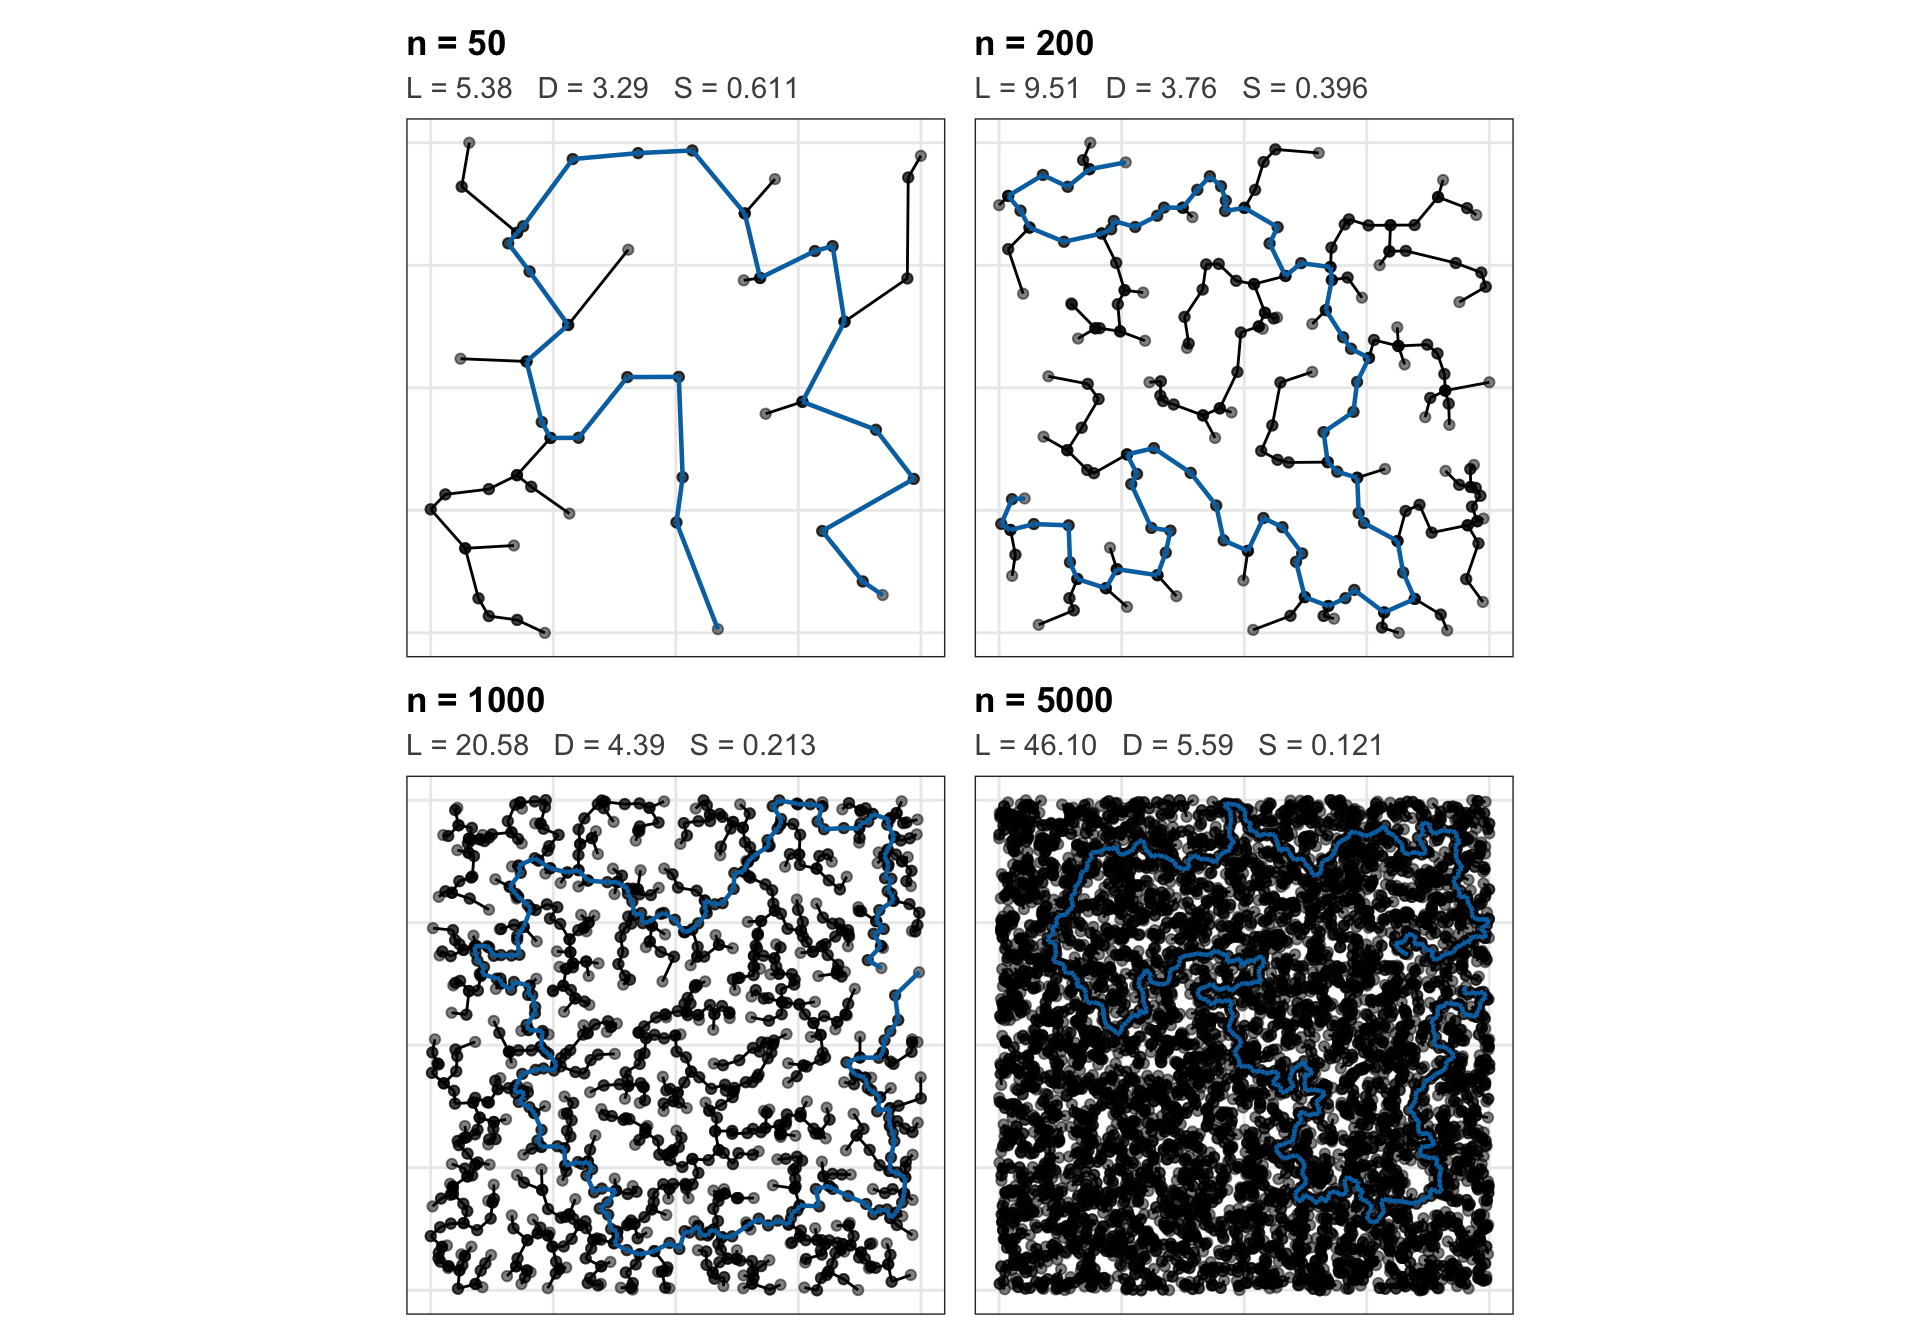
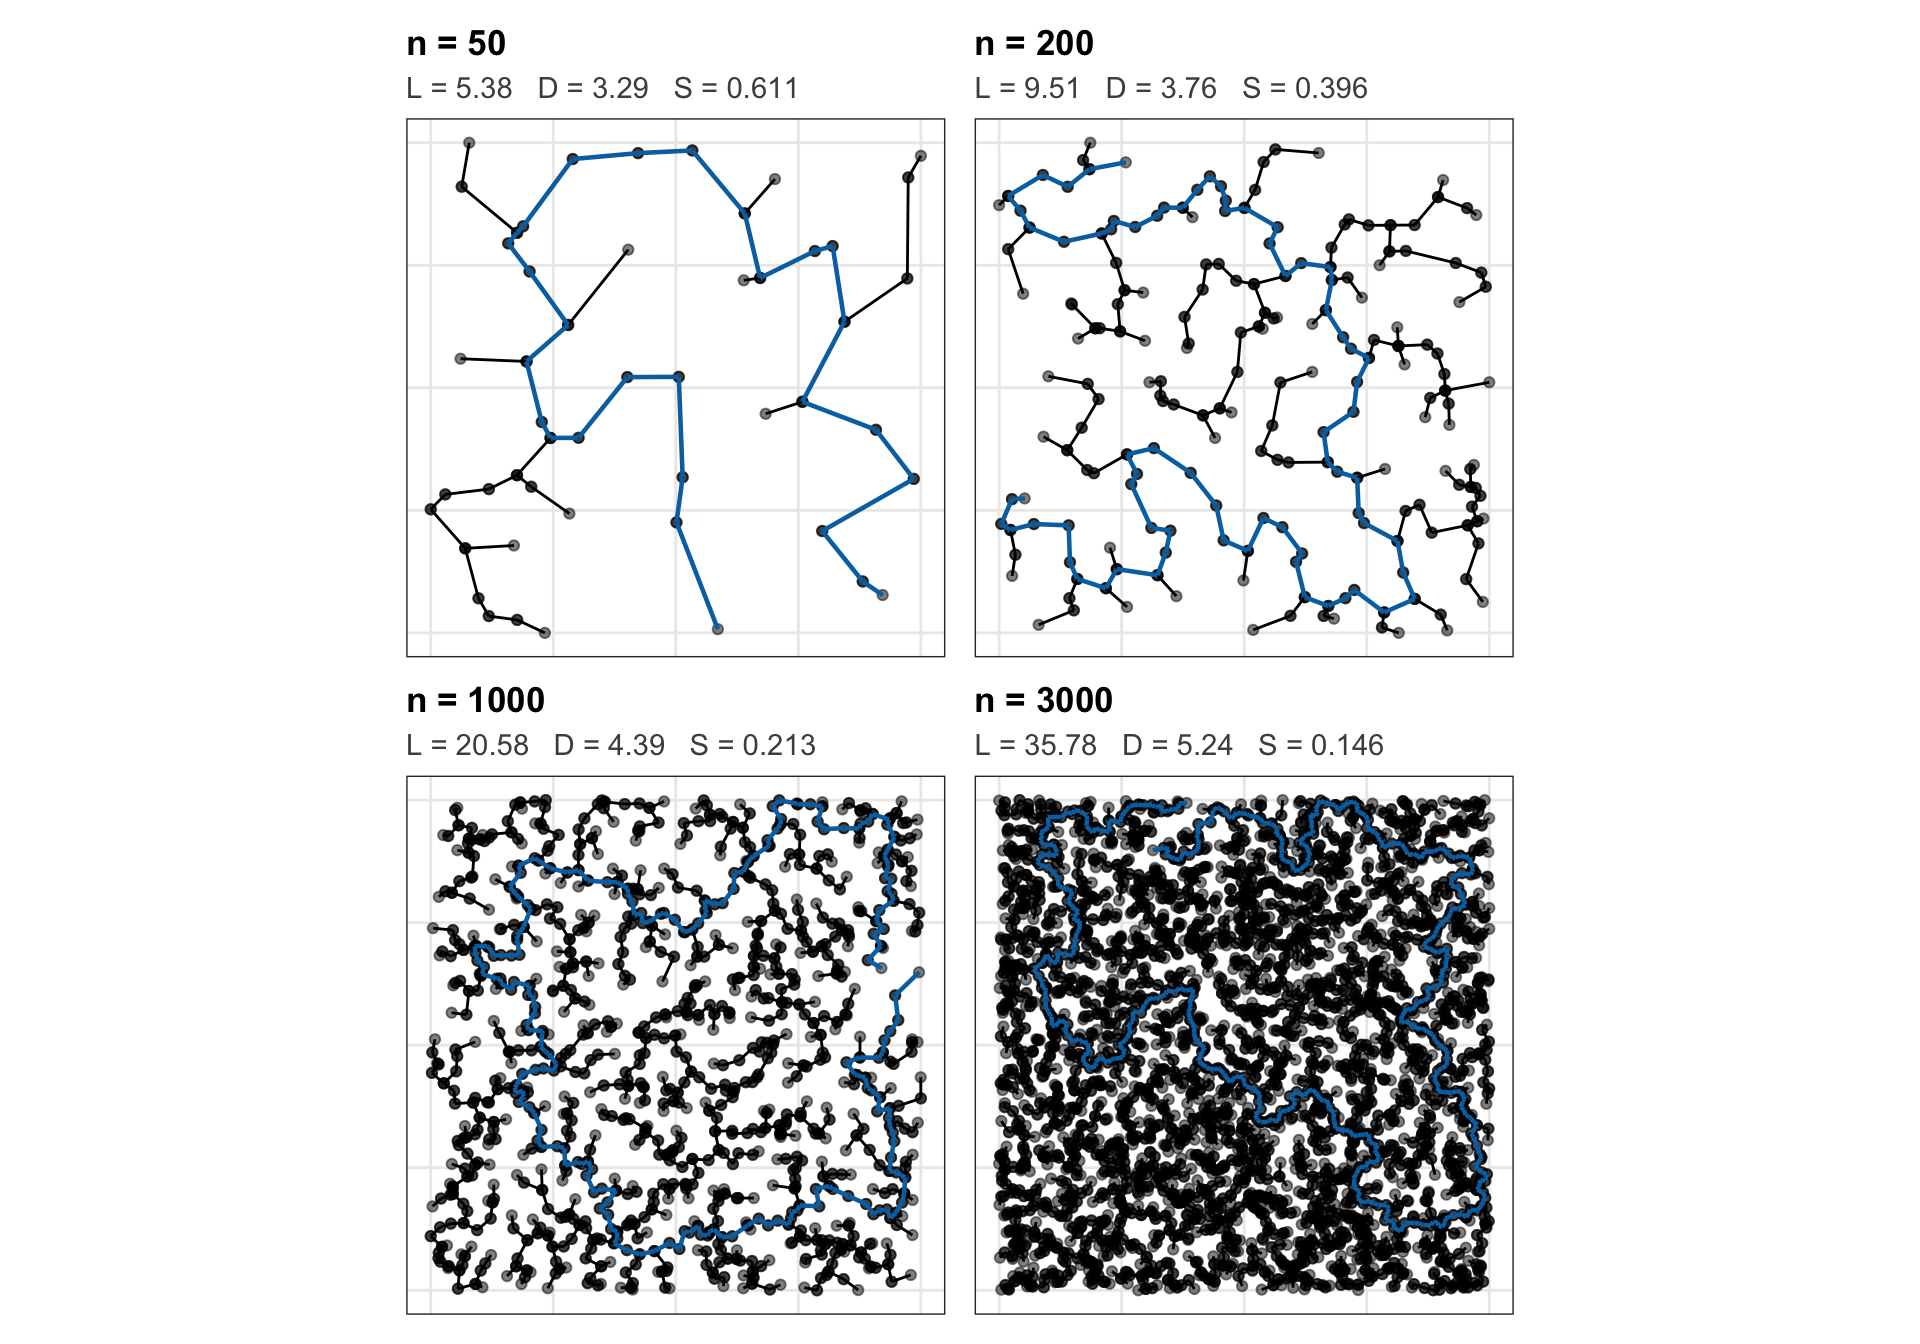
Added stringy anatomy

diff --git a/draft/draft.html b/draft/draft.html
@@ -105,7 +105,12 @@ window.Quarto = {
   <ul>
   <li><a href="#abstract" id="toc-abstract" class="nav-link active" data-scroll-target="#abstract"><span class="header-section-number">1</span> Abstract</a></li>
   <li><a href="#introduction" id="toc-introduction" class="nav-link" data-scroll-target="#introduction"><span class="header-section-number">2</span> Introduction</a></li>
-  <li><a href="#references" id="toc-references" class="nav-link" data-scroll-target="#references"><span class="header-section-number">3</span> References</a></li>
+  <li><a href="#geometry-of-the-stringy-statistic" id="toc-geometry-of-the-stringy-statistic" class="nav-link" data-scroll-target="#geometry-of-the-stringy-statistic"><span class="header-section-number">3</span> Geometry of the Stringy statistic</a>
+  <ul class="collapse">
+  <li><a href="#anatomy-of-the-index" id="toc-anatomy-of-the-index" class="nav-link" data-scroll-target="#anatomy-of-the-index"><span class="header-section-number">3.1</span> Anatomy of the index</a></li>
+  <li><a href="#same-distribution-increasingly-dense-msts" id="toc-same-distribution-increasingly-dense-msts" class="nav-link" data-scroll-target="#same-distribution-increasingly-dense-msts"><span class="header-section-number">3.2</span> Same distribution, increasingly dense MSTs</a></li>
+  </ul></li>
+  <li><a href="#references" id="toc-references" class="nav-link" data-scroll-target="#references"><span class="header-section-number">4</span> References</a></li>
   </ul>
 <div class="quarto-alternate-formats"><h2>Other Formats</h2><ul><li><a href="draft.pdf"><i class="bi bi-file-pdf"></i>PDF</a></li></ul></div></nav>
 </div>
@@ -212,12 +217,82 @@ L_n
 </ol>
 <p>The paper is deliberately framed as an empirical scaling investigation rather than as a derivation of the asymptotic growth rate of the weighted Euclidean MST diameter. The contribution is instead to connect known MST theory with the finite-sample behaviour of Stringy, identify which component drives the sample-size dependence, evaluate the limits of deterministic scaling, and motivate a statistically calibrated version of the index for projection pursuit.</p>
 </section>
-<section id="references" class="level1 unnumbered" data-number="3">
+<section id="geometry-of-the-stringy-statistic" class="level1" data-number="3">
+<h1 data-number="3"><span class="header-section-number">3</span> Geometry of the Stringy statistic</h1>
+<p>Stringy is defined by a remarkably simple ratio, but that simplicity hides a more interesting geometric story.</p>
+<p>Minimum spanning trees have long been used to summarize spatial relationships among observations. Classical statistical connections include single-linkage clustering <span class="citation" data-cites="gower1969mst">(<a href="#ref-gower1969mst" role="doc-biblioref">Gower and Ross 1969</a>)</span> and later density-based cluster estimation using the sample MST <span class="citation" data-cites="stuetzle2003cluster">(<a href="#ref-stuetzle2003cluster" role="doc-biblioref">Stuetzle 2003</a>)</span>. In scagnostics, however, the role of the MST is different: it acts as a geometric skeleton of the scatterplot, from which visual characteristics of the point cloud can be quantified <span class="citation" data-cites="wilkinson2005graph wilkinson2008scagdist">(<a href="#ref-wilkinson2005graph" role="doc-biblioref">Wilkinson et al. 2005</a>; <a href="#ref-wilkinson2008scagdist" role="doc-biblioref">Wilkinson and Wills 2008</a>)</span>.</p>
+<p>For Stringy, the key question is not simply how large the MST is. It is how much of that tree can be captured by one dominant path.</p>
+<section id="anatomy-of-the-index" class="level2" data-number="3.1">
+<h2 data-number="3.1" class="anchored" data-anchor-id="anatomy-of-the-index"><span class="header-section-number">3.1</span> Anatomy of the index</h2>
+<p>The distinction among total tree length, weighted diameter, and longest individual edge is easiest to understand by looking directly at the tree.</p>
+<p><a href="#fig-stringy-anatomy" class="quarto-xref">Figure&nbsp;1</a> shows the same structured point cloud and exactly the same MST, but highlights two different geometric objects. In the left panel, the emphasized path is the <strong>weighted diameter</strong>: the path through the MST whose accumulated Euclidean edge length is largest. This is the quantity used in the numerator of Stringy. In the right panel, only the <strong>single longest edge</strong> is highlighted.</p>
+<p>The contrast is important. The longest edge is a local extreme: it identifies one unusually long connection in the tree. The weighted diameter is global: it can pass through many comparatively short edges and accumulate a much larger total length. Although both quantities come from the same MST, they answer fundamentally different geometric questions.</p>
+<div class="cell">
+<div class="cell-output-display">
+<div id="fig-stringy-anatomy" class="quarto-float quarto-figure quarto-figure-center anchored">
+<figure class="quarto-float quarto-float-fig figure">
+<div aria-describedby="fig-stringy-anatomy-caption-0ceaefa1-69ba-4598-a22c-09a6ac19f8ca">
+<img src="draft_files/figure-html/fig-stringy-anatomy-1.png" class="img-fluid figure-img" width="864">
+</div>
+<figcaption class="quarto-float-caption-bottom quarto-float-caption quarto-float-fig" id="fig-stringy-anatomy-caption-0ceaefa1-69ba-4598-a22c-09a6ac19f8ca">
+Figure&nbsp;1: Two different geometric summaries of the same minimum spanning tree. Left: the weighted diameter, defined as the path with the greatest accumulated Euclidean length and used in the numerator of Stringy. Right: the single longest MST edge. The comparison illustrates why longest-edge theory does not directly determine the behaviour of the Stringy numerator.
+</figcaption>
+</figure>
+</div>
+</div>
+</div>
+<p>The original Stringy index compares the length of the longest weighted path with the total length of the tree,</p>
+<p><span class="math display">\[
+S_n=\frac{D_n}{L_n}.
+\]</span></p>
+<p>Because every diameter path consists only of edges already contained in the MST,</p>
+<p><span class="math display">\[
+0&lt;D_n\leq L_n,
+\]</span></p>
+<p>and therefore</p>
+<p><span class="math display">\[
+0&lt;S_n\leq1.
+\]</span></p>
+<p>This bound is built directly into the geometry of the index. A value near one means that most of the tree can be traversed along a single dominant path; a smaller value indicates that more of the total tree length lies in branches away from that path.</p>
+<p>This structural bound becomes especially important later. Any proposed normalization that modifies the numerator and denominator differently may reduce sample-size dependence, but it may also break the geometric relationship that guarantees Stringy remains between zero and one.</p>
+</section>
+<section id="same-distribution-increasingly-dense-msts" class="level2" data-number="3.2">
+<h2 data-number="3.2" class="anchored" data-anchor-id="same-distribution-increasingly-dense-msts"><span class="header-section-number">3.2</span> Same distribution, increasingly dense MSTs</h2>
+<p>The sample-size problem becomes more intuitive when the tree is allowed to grow.</p>
+<p><a href="#fig-growing-mst" class="quarto-xref">Figure&nbsp;2</a> shows four independent samples from exactly the same data-generating mechanism,</p>
+<p><span class="math display">\[
+(X,Y)\sim U(0,1)^2,
+\]</span></p>
+<p>with only the sample size changing. The square itself does not expand, the underlying distribution does not change, and no new structure is introduced. What changes is the resolution at which the region is sampled.</p>
+<p>As <span class="math inline">\(n\)</span> increases, the MST fills the same spatial domain with more vertices and therefore more edges. Individual edges become shorter, but there are more of them. The total tree length, the weighted diameter, and their ratio do not respond to these changes in the same way.</p>
+<div class="cell">
+<div class="cell-output-display">
+<div id="fig-growing-mst" class="quarto-float quarto-figure quarto-figure-center anchored">
+<figure class="quarto-float quarto-float-fig figure">
+<div aria-describedby="fig-growing-mst-caption-0ceaefa1-69ba-4598-a22c-09a6ac19f8ca">
+<img src="draft_files/figure-html/fig-growing-mst-1.png" class="img-fluid figure-img" width="960">
+</div>
+<figcaption class="quarto-float-caption-bottom quarto-float-caption quarto-float-fig" id="fig-growing-mst-caption-0ceaefa1-69ba-4598-a22c-09a6ac19f8ca">
+Figure&nbsp;2: The geometry of the Euclidean MST as sampling density increases under the same Uniform(0,1)^2 data-generating mechanism. Grey segments show the complete MST and blue segments highlight the weighted diameter path. The spatial domain is unchanged across panels; only n increases. Each panel reports total MST length L, weighted diameter D, and Stringy S = D/L.
+</figcaption>
+</figure>
+</div>
+</div>
+</div>
+<p><a href="#fig-growing-mst" class="quarto-xref">Figure&nbsp;2</a> shows why Stringy can change with sample size even when the underlying distribution does not change.</p>
+<p>As <span class="math inline">\(n\)</span> increases, the MST contains more edges. These edges are generally shorter because the points are packed more densely, but there are many more of them. As a result, the <strong>total MST length</strong> can still increase.</p>
+<p>The <strong>weighted diameter</strong> behaves differently because it uses only the edges along one longest path through the tree. When more points are added, this path may pass through more vertices, but the individual edges along the path also become shorter.</p>
+<p>So the numerator and denominator of Stringy respond to increasing sample size in different ways.</p>
+<p>The key question is therefore not simply whether Stringy changes with <span class="math inline">\(n\)</span>, but <strong>why</strong> it changes. In particular, we want to know whether the total tree length <span class="math inline">\(L_n\)</span> and the longest weighted path <span class="math inline">\(D_n\)</span> grow at different rates.</p>
+<p>The rest of this paper investigates this difference.</p>
+</section>
+</section>
+<section id="references" class="level1 unnumbered" data-number="4">
 
 
 </section>
 
-<div id="quarto-appendix" class="default"><section class="quarto-appendix-contents" role="doc-bibliography" id="quarto-bibliography"><h2 class="anchored quarto-appendix-heading">3 References</h2><div id="refs" class="references csl-bib-body hanging-indent" role="list">
+<div id="quarto-appendix" class="default"><section class="quarto-appendix-contents" role="doc-bibliography" id="quarto-bibliography"><h2 class="anchored quarto-appendix-heading">4 References</h2><div id="refs" class="references csl-bib-body hanging-indent" role="list">
 <div id="ref-addarioberry2006diameter" class="csl-entry" role="listitem">
 Addario-Berry, Louigi, Nicolas Broutin, and Bruce Reed. 2006. <span>“The Diameter of the Minimum Spanning Tree of a Complete Graph.”</span> <em>Discrete Mathematics &amp; Theoretical Computer Science Proceedings</em> AG: 237–48. <a href="https://doi.org/10.46298/dmtcs.3513">https://doi.org/10.46298/dmtcs.3513</a>.
 </div>
@@ -239,6 +314,9 @@ Friedman, Jerome H. 1987. <span>“Exploratory Projection Pursuit.”</span> <em
 <div id="ref-friedman1974projection" class="csl-entry" role="listitem">
 Friedman, Jerome H., and John W. Tukey. 1974. <span>“A Projection Pursuit Algorithm for Exploratory Data Analysis.”</span> <em>IEEE Transactions on Computers</em> C-23 (9): 881–90. <a href="https://doi.org/10.1109/T-C.1974.224051">https://doi.org/10.1109/T-C.1974.224051</a>.
 </div>
+<div id="ref-gower1969mst" class="csl-entry" role="listitem">
+Gower, J. C., and G. J. S. Ross. 1969. <span>“Minimum Spanning Trees and Single Linkage Cluster Analysis.”</span> <em>Journal of the Royal Statistical Society: Series C (Applied Statistics)</em> 18 (1): 54–64. <a href="https://doi.org/10.2307/2346439">https://doi.org/10.2307/2346439</a>.
+</div>
 <div id="ref-huber1985projection" class="csl-entry" role="listitem">
 Huber, Peter J. 1985. <span>“Projection Pursuit.”</span> <em>The Annals of Statistics</em> 13 (2): 435–75. <a href="https://doi.org/10.1214/aos/1176349519">https://doi.org/10.1214/aos/1176349519</a>.
 </div>
@@ -247,6 +325,9 @@ Penrose, Mathew D. 1997. <span>“The Longest Edge of the Random Minimal Spannin
 </div>
 <div id="ref-steele1988growth" class="csl-entry" role="listitem">
 Steele, J. Michael. 1988. <span>“Growth Rates of Euclidean Minimal Spanning Trees with Power Weighted Edges.”</span> <em>The Annals of Probability</em> 16 (4): 1767–87. <a href="https://doi.org/10.1214/aop/1176991596">https://doi.org/10.1214/aop/1176991596</a>.
+</div>
+<div id="ref-stuetzle2003cluster" class="csl-entry" role="listitem">
+Stuetzle, Werner. 2003. <span>“Estimating the Cluster Tree of a Density by Analyzing the Minimal Spanning Tree of a Sample.”</span> <em>Journal of Classification</em> 20 (1): 25–47. <a href="https://doi.org/10.1007/s00357-003-0004-6">https://doi.org/10.1007/s00357-003-0004-6</a>.
 </div>
 <div id="ref-tukey1975picturing" class="csl-entry" role="listitem">
 Tukey, John W. 1975. <span>“Mathematics and the Picturing of Data.”</span> <em>Proceedings of the International Congress of Mathematicians (Vancouver, BC, 1974), Volume 2</em> (Montreal, Canada), 523–31.
